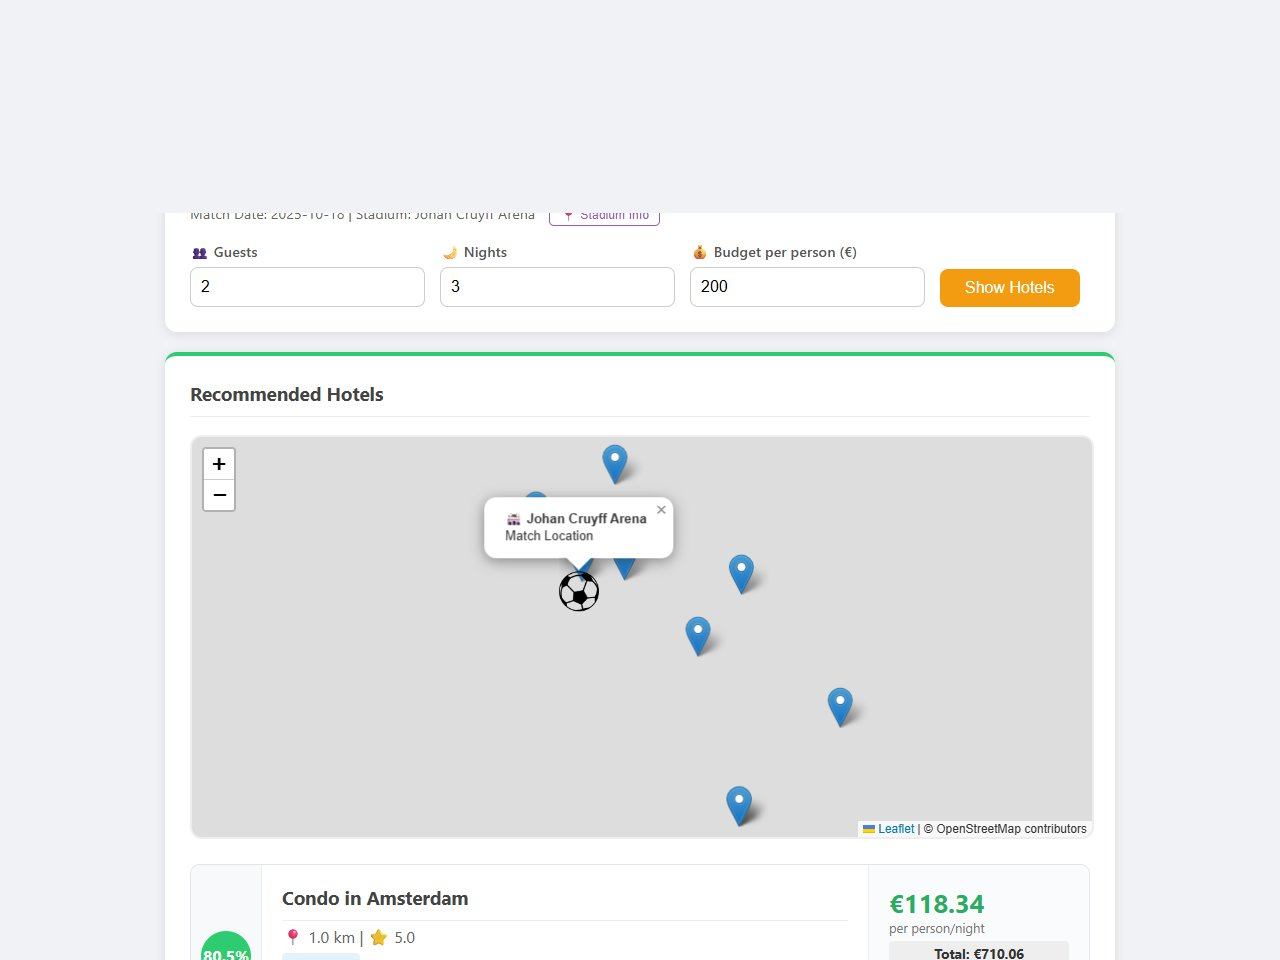
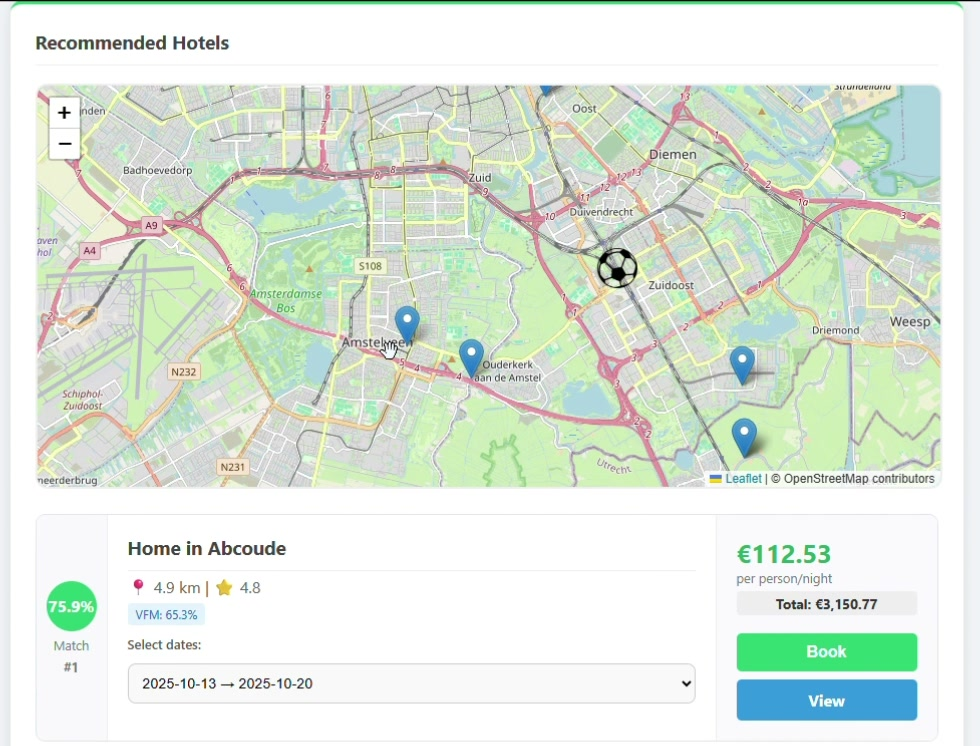
fix: show loaded map in MatchPoint preview

diff --git a/match-point/README.md b/match-point/README.md
@@ -10,7 +10,7 @@ Rank Airbnb listings for football tourists, where "best" means *near the stadium
 - **[Watch / download the user journey video](assets/users-journey.mp4)** — the original 79-second, 1080p walkthrough, including audio.
 - **[Browse the saved intermediate outputs](data/)** — fixture schedule, scraped stadium details and generated stadium guides. These are historical exports, not live feeds; the raw course Airbnb dataset is not included.
 
-[![MatchPoint user journey](assets/demo-preview.jpg)](assets/users-journey.mp4)
+[![MatchPoint map showing the stadium and recommended accommodation](assets/demo-preview.jpg)](assets/users-journey.mp4)
 
 This is a **historical course demonstration**, not a live travel service. The HTML contains 10,172 fixtures dated **2023-08-04 to 2026-01-21**, with 327,854 saved accommodation recommendations across 4,059 fixture groups. Prices, availability and generated stadium guides are not refreshed. The booking dialog is simulated: no reservation is made and no email is sent.
 
